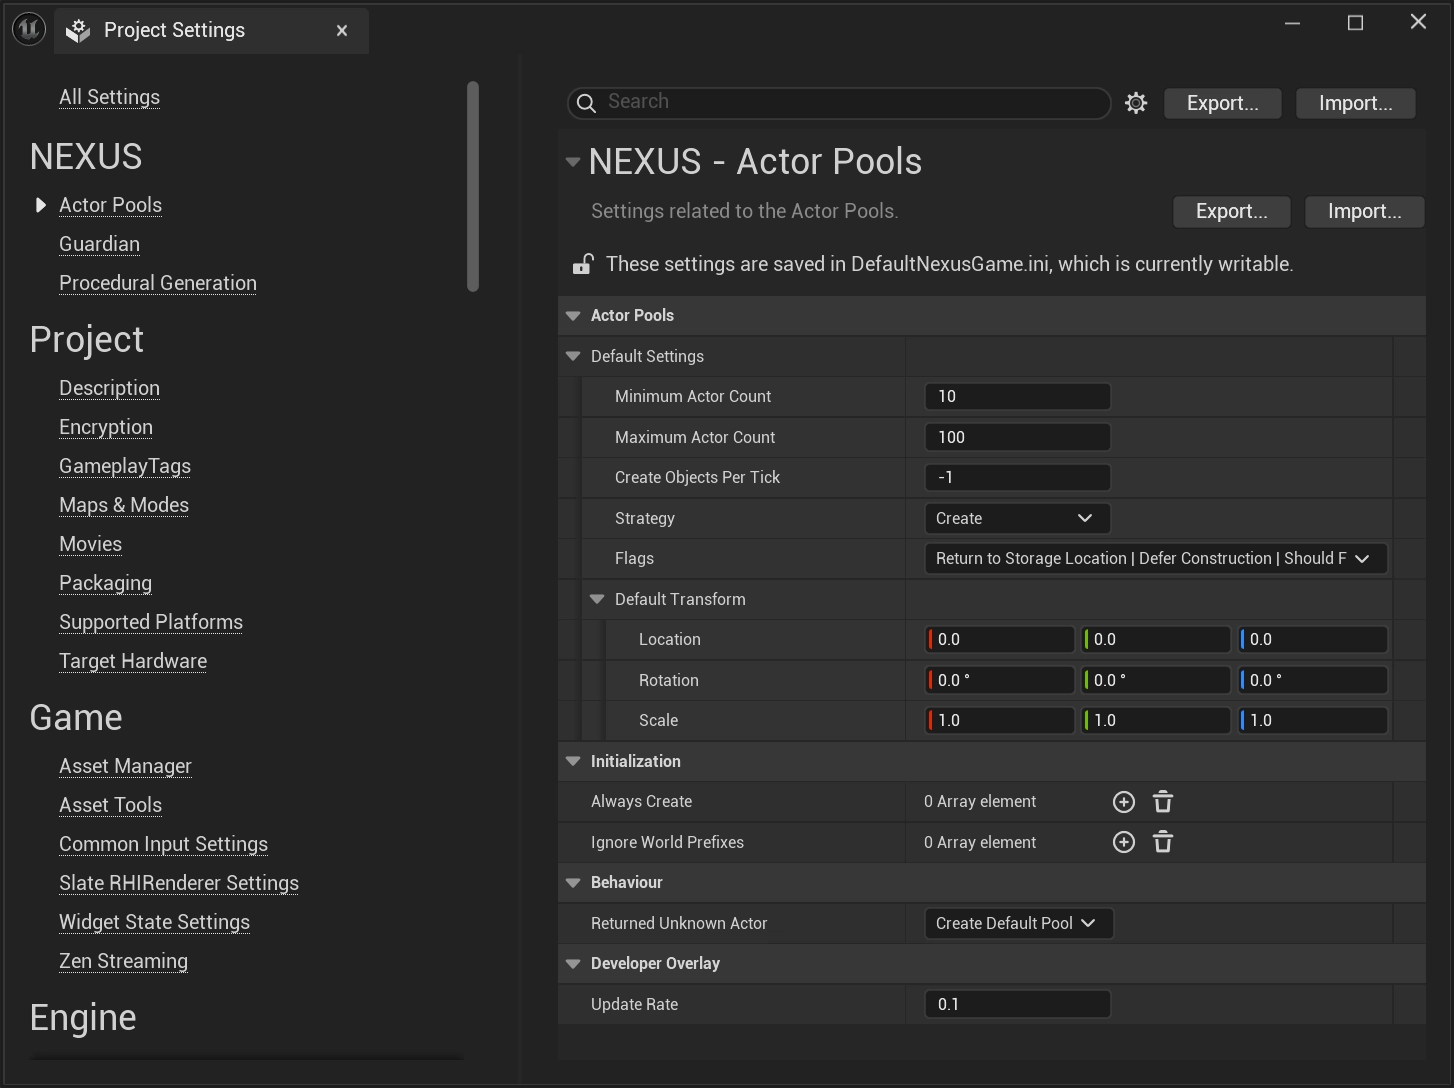
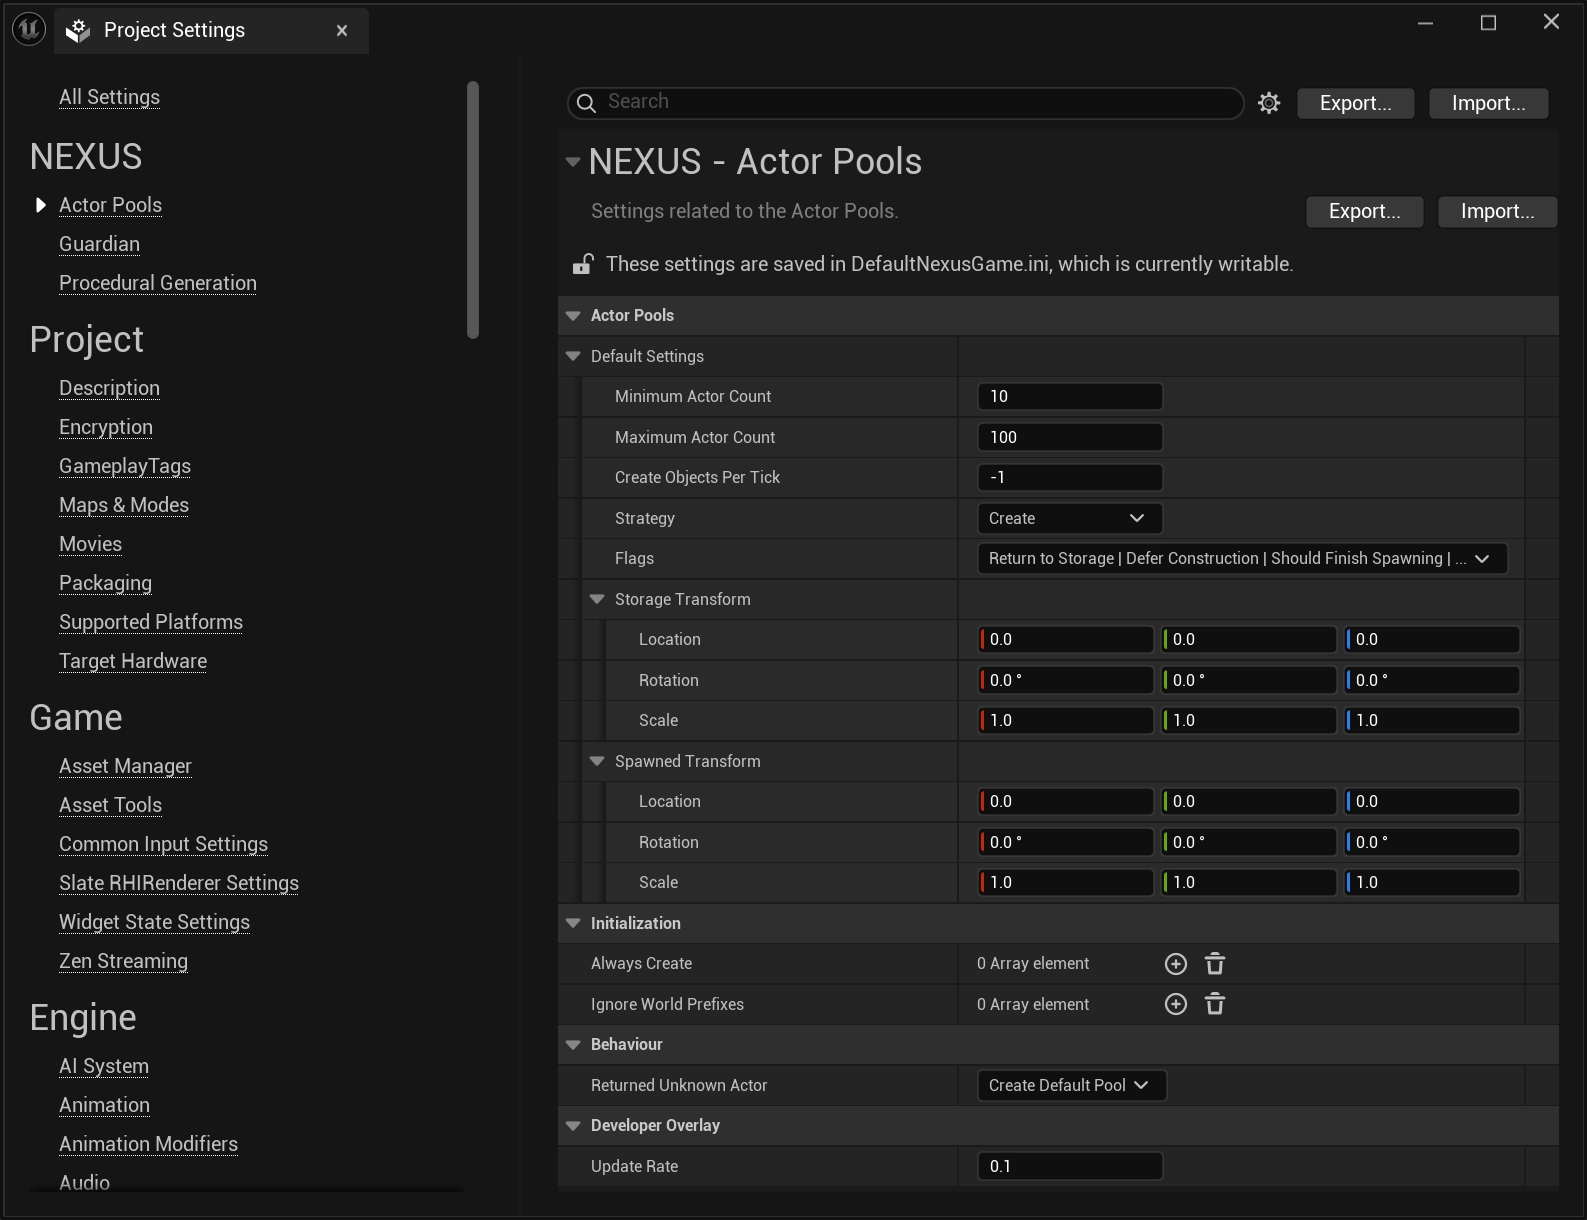
pool changes

diff --git a/docs/plugins/actor-pools/types/actor-pool-settings.md b/docs/plugins/actor-pools/types/actor-pool-settings.md
@@ -30,8 +30,9 @@ A Blueprint-compatible struct that defines configuration parameters for managing
 | `MaximumActorCount` | `int32` | The number of pooled `AActor`s that a pool can use/have. This is tied more to the `Strategy` being used for what happens when the pool has to create new `AActor`s when the pool has no `AActors` available to `Spawn()`/`Get()`. | `100` |
 | `CreateObjectsPerTick` | `int32` | Throttles the number of `AActors` that can be created per **Tick**. This can be useful to spread the cost of warming a pool up across multiple frames (-1 for unlimited). | `-1` |
 | `Strategy` | [ENActorPoolStrategy](#creation-strategies) | Determines the approach taken when the pool does not have any `AActor` remaining in the "In" pool, and needs to create one (or reuse). | `Create` |
-| `Flags` | [ENActorPoolFlags](#flags) | The behavioral flags to evaluate when doing operations with this pool. | `ReturnToStorageLocation, DeferConstruction, ShouldFinishSpawning`, `ServerOnly` |
-| `DefaultTransform` | `FTransform` | The default applied transform when creating an `AActor`, with the location component being used as the storage location when an `AActor` is returned to the pool, and the scale applied when spawned. | `Translation(0,0,0)` `Rotator(0,0,0)` `Scale(1,1,1)` |
+| `Flags` | [ENActorPoolFlags](#flags) | The behavioral flags to evaluate when doing operations with this pool. | `ReturnToStorage, DeferConstruction, ShouldFinishSpawning`, `ServerOnly` |
+| `StorageTransform` | `FTransform` | The default applied transform when creating an `AActor` | `Translation(0,0,0)` `Rotator(0,0,0)` `Scale(1,1,1)` |
+| `SpawnedTransform` | `FTransform` | The default applied transform when spawning an `AActor`. This can allow for always offsetting a spawned actor. | `Translation(0,0,0)` `Rotator(0,0,0)` `Scale(1,1,1)` |
 
 ## Creation Strategies
 
@@ -50,7 +51,7 @@ A Blueprint-compatible struct that defines configuration parameters for managing
 | Native | Display | Description |
 | :-- | :-- | :-- |
 | `SweepBeforeSettingLocation` | Sweep Before Setting Location | Should a sweep be done when setting the location of an `AActor` being spawned? | 
-| `ReturnToStorageLocation` | Return To Storage Location | Should the `AActor` being returned to the pool be moved to a storage location? |
+| `ReturnToStorage` | Return To Storage Location | Should the `AActor` being returned to the pool be moved to a storage transform? |
 | `DeferConstruction` | Defer Construction | Controls whether `AActor` construction is deferred when creating new `AActors`; allowing for additional calls to be made to the `INActorPoolItem::OnDeferredConstruction()` before calling the `AActors` `FinishSpawning()`. | 
 | `ShouldFinishSpawning` | Should Finish Spawning | Manages `FinishSpawning()` calls for non-[INActorPoolItem](actor-pool-item.md) `AActors`. | 
 | `ServerOnly` | Server Only | Safely ensure all actions only actually occur on world authority (server), transparently making the pool networked. |
